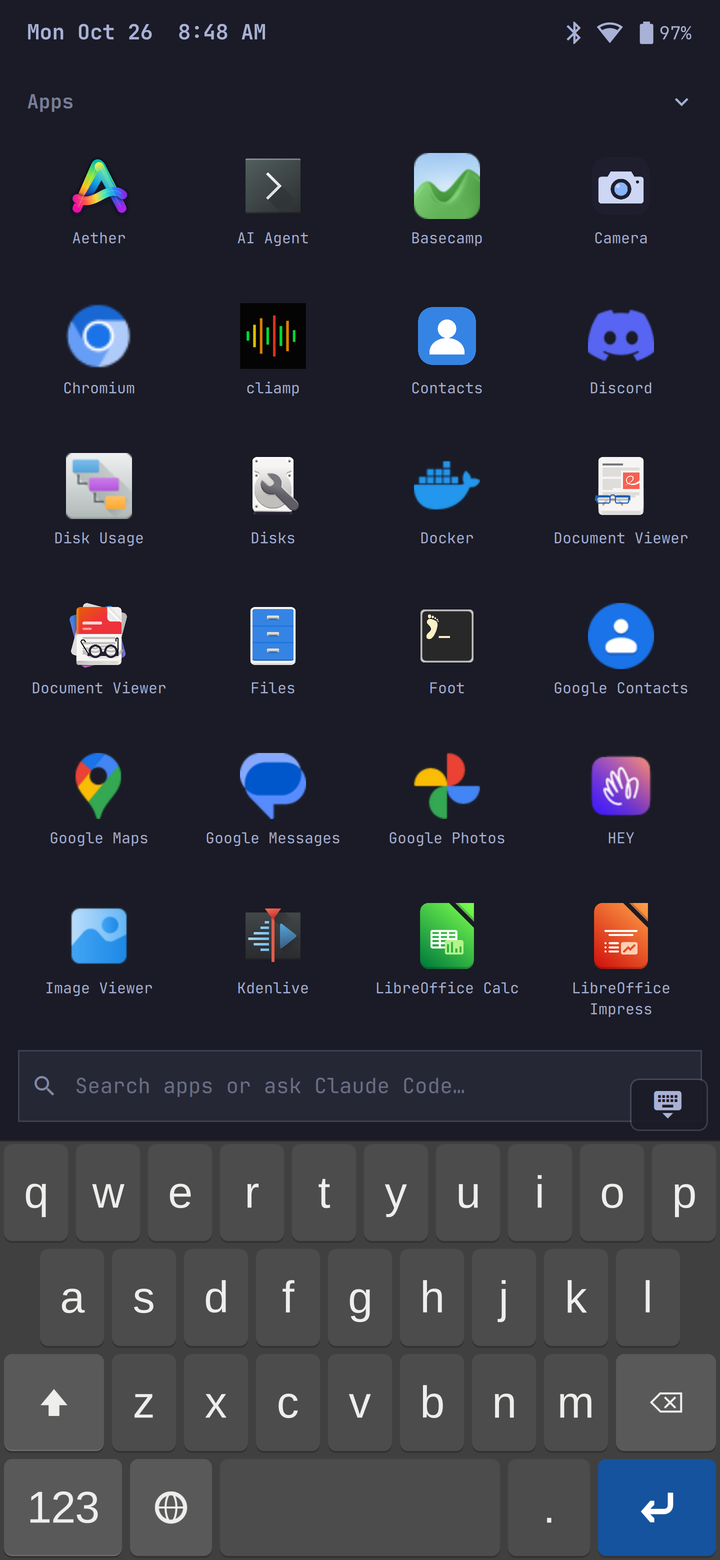
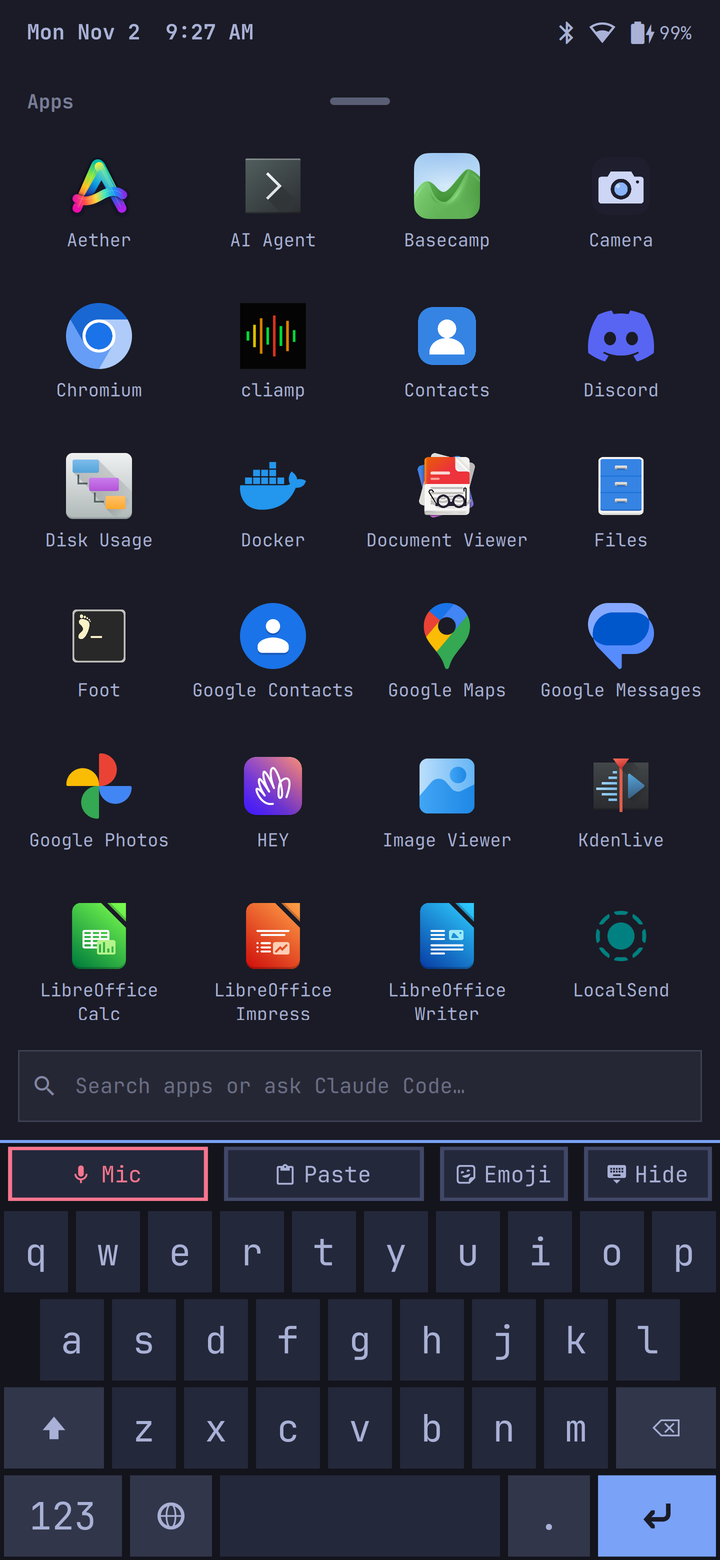
README, screenshots: the new keyboard and voice dictation (#335)
Derek's 2026-11-02 captures on the 7 Pro replace the October ones: the app list with the keyboard's Mic/Paste/Emoji row, voice dictation into an agent in the terminal, the app drawer with its search field, and the keyboard's terminal key row.

Claude-Session: https://claude.ai/code/session_01BeEcdVeSfyLCbijF8XQF1d

diff --git a/README.md b/README.md
@@ -5,8 +5,8 @@ Native Omarchy on mobile devices: Arch Linux ARM, Hyprland and Omarchy's own pac
 <p align="center">
   <img src="docs/screenshots/home.png" width="22%" alt="The home screen, with widgets and a dock">
   <img src="docs/screenshots/quick-settings.png" width="22%" alt="Quick settings">
-  <img src="docs/screenshots/apps.png" width="22%" alt="The app list with the on-screen keyboard">
-  <img src="docs/screenshots/terminal.png" width="22%" alt="A terminal running an AI agent">
+  <img src="docs/screenshots/apps.png" width="22%" alt="The app list with the on-screen keyboard and its Mic, Paste and Emoji row">
+  <img src="docs/screenshots/terminal.png" width="22%" alt="Voice dictation into an AI agent running in the terminal">
 </p>
 
 What works on each phone, and the notes behind it: [docs/DEVICES.md](docs/DEVICES.md). What's next: [docs/ROADMAP.md](docs/ROADMAP.md).
